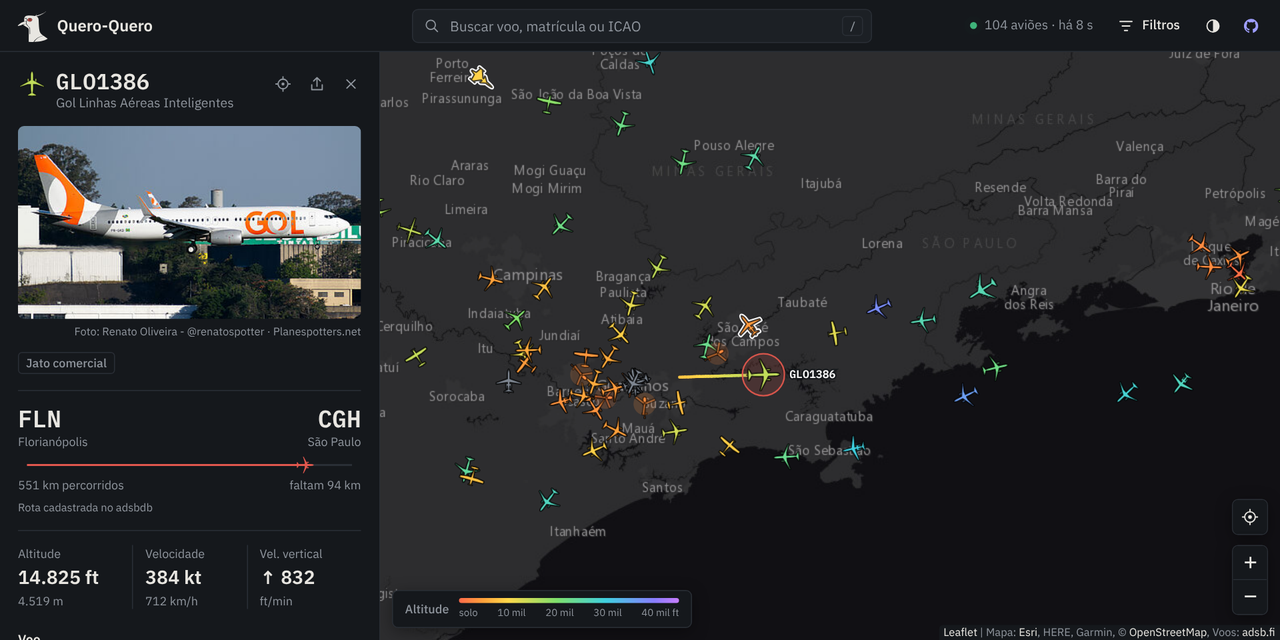
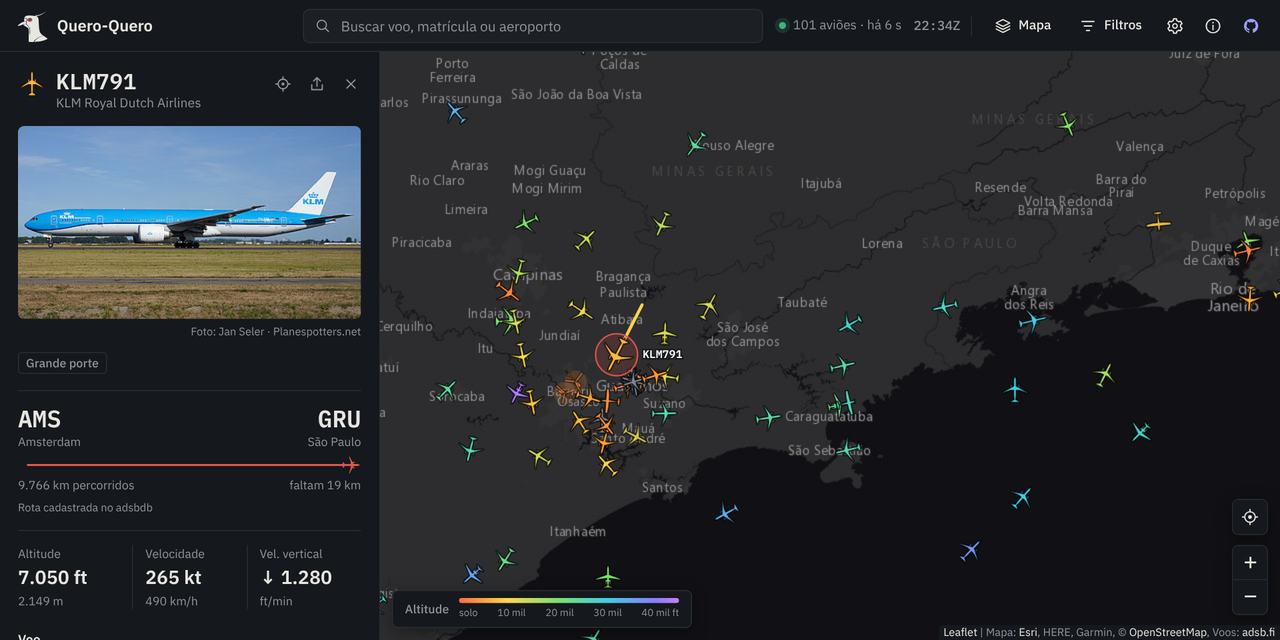
Atualiza a prévia de link com a interface atual
Claude-Session: https://claude.ai/code/session_01BzwVKo4MjDyfSTkuBQzErr

diff --git a/index.html b/index.html
@@ -19,7 +19,7 @@
   <meta property="og:image" content="https://erickfuzer.github.io/QueroQuero/assets/social-preview.png">
   <meta property="og:image:width" content="1280">
   <meta property="og:image:height" content="640">
-  <meta property="og:image:alt" content="Mapa de São Paulo com aviões coloridos pela altitude e o painel de um voo aberto">
+  <meta property="og:image:alt" content="Mapa escuro de São Paulo com aviões coloridos pela altitude e o painel de um voo aberto, com foto, rota e rastro">
   <meta name="twitter:card" content="summary_large_image">
 
   <!-- Aplica o tema salvo antes de desenhar a página, para não piscar -->
